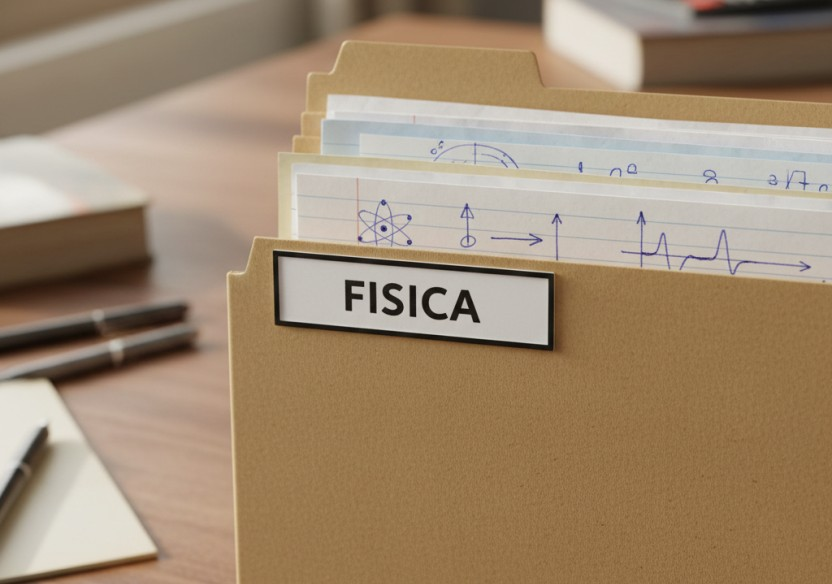
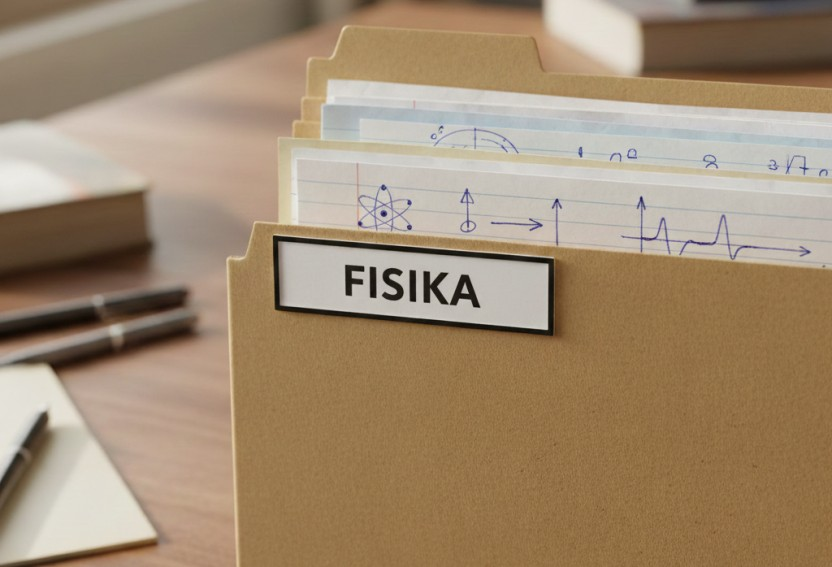
fletxak falta

diff --git a/autoebaluazioa.html b/autoebaluazioa.html
@@ -64,7 +64,7 @@
       color: white;
       user-select: none;
       min-height: 72px;
-      border: 4px solid transparent; /* Preparado para el borde */
+      border: 4px solid transparent; 
       text-align: center;
     }
 
@@ -74,22 +74,20 @@
       z-index: 10;
     }
 
-    /* --- ESTILOS DE SELECCIÓN MEJORADOS --- */
-    
-    /* Cuando una respuesta está seleccionada */
+  
     .answer-btn.selected {
       transform: scale(1.05);
-      border-color: #fff; /* Borde blanco grueso */
+      border-color: #fff; 
       box-shadow: 0 0 20px rgba(255, 255, 255, 0.4);
       z-index: 10;
     }
 
-    /* Cuando el contenedor tiene alguna seleccionada, oscurecemos las NO seleccionadas */
+  
     .kahoot-grid.has-selection .answer-btn:not(.selected) {
       opacity: 0.4;
       transform: scale(0.95);
     }
-    /* -------------------------------------- */
+  
 
     .a1 { background: linear-gradient(135deg,#e75b57,#d43b2e); }
     .a2 { background: linear-gradient(135deg,#2b8fd8,#015fa7); }
@@ -135,7 +133,6 @@
 
     .small-muted { opacity: 0.85; color: rgba(255,255,255,0.85); }
     
-    /* Feedback text styles */
     .feedback-correct { color: #198754; font-weight: bold; }
     .feedback-wrong { color: #dc3545; font-weight: bold; }
     .feedback-info { font-size: 0.95rem; margin-top: 5px; color: #555; }
@@ -270,7 +267,7 @@
             <div class="answer-btn a4" data-value="correct" data-q="10">4</div>
           </div>
         </div>
-      </div>
+      </div>  
 
       <div id="nav-buttons" class="d-flex justify-content-between align-items-center">
         <button id="prev-btn" class="btn btn-light" disabled>⬅ Aurrekoa</button>
@@ -297,14 +294,11 @@
   </div>
 
   <script>
-    // Variables de Estado
     let currentStep = 0;
     const cards = document.querySelectorAll('.question-card');
     const totalQuestions = cards.length;
-    // Guardamos las respuestas del usuario: { indicePregunta: elementoBoton }
     const userAnswers = {}; 
 
-    // Referencias DOM
     const startScreen = document.getElementById('start-screen');
     const quizScreen = document.getElementById('quiz-screen');
     const startBtn = document.getElementById('start-btn');
@@ -319,39 +313,27 @@
     const retryBtn = document.getElementById('retry-btn');
     const navButtons = document.getElementById('nav-buttons');
 
-    // --- LOGICA DE INICIO ---
     startBtn.addEventListener('click', () => {
       startScreen.classList.add('d-none');
       quizScreen.classList.remove('d-none');
       updateView();
     });
 
-    // --- LOGICA DE SELECCION (Mejorada visualmente) ---
     document.querySelectorAll('.answer-btn').forEach(btn => {
       btn.addEventListener('click', (e) => {
         const qIndex = parseInt(btn.getAttribute('data-q'));
         const parentGrid = btn.closest('.kahoot-grid');
         
-        // 1. Quitar clase 'selected' a hermanos
-        parentGrid.querySelectorAll('.answer-btn').forEach(b => b.classList.remove('selected'));
-        
-        // 2. Añadir clase 'selected' al clickado
-        btn.classList.add('selected');
-        
-        // 3. Añadir clase al padre para oscurecer los no seleccionados
-        parentGrid.classList.add('has-selection');
 
-        // 4. Guardar respuesta
+        parentGrid.querySelectorAll('.answer-btn').forEach(b => b.classList.remove('selected'));
+        btn.classList.add('selected');    
+        parentGrid.classList.add('has-selection');
         userAnswers[qIndex] = btn;
-        
-        // Ocultar warning si se selecciona algo
         warningDiv.classList.add('d-none');
       });
     });
 
-    // --- NAVEGACION ---
     nextBtn.addEventListener('click', () => {
-      // Validar si ha respondido
       if (!userAnswers[currentStep]) {
         warningDiv.classList.remove('d-none');
         warningDiv.innerText = "⚠ Mesedez, aukeratu erantzun bat jarraitzeko!";
@@ -374,7 +356,6 @@
     });
 
     function updateView() {
-      // Mostrar tarjeta actual
       cards.forEach((card, index) => {
         if (index === currentStep) {
           card.classList.add('active');
@@ -383,7 +364,6 @@
         }
       });
 
-      // Controlar botones
       prevBtn.disabled = (currentStep === 0);
       
       if (currentStep === totalQuestions - 1) {
@@ -395,9 +375,7 @@
       }
     }
 
-    // --- FINALIZAR Y RESULTADOS ---
     finishBtn.addEventListener('click', () => {
-       // Validar última pregunta
        if (!userAnswers[currentStep]) {
         warningDiv.classList.remove('d-none');
         warningDiv.innerText = "⚠ Mesedez, aukeratu erantzun bat amaitzeko!";
@@ -408,12 +386,10 @@
     });
 
     function showResults() {
-      // Ocultar preguntas y navegación
       document.getElementById('questions').classList.add('d-none');
       navButtons.classList.add('d-none');
-      warningDiv.classList.add('d-none'); // Asegurar que no hay alertas
+      warningDiv.classList.add('d-none'); 
 
-      // Calcular nota y generar HTML detallado
       let score = 0;
       let resultsHTML = '';
 
@@ -424,12 +400,9 @@
         
         if (isCorrect) score++;
 
-        // Buscar texto de la respuesta correcta (para mostrar si falla)
-        // Buscamos dentro de la carta, el botón con data-value="correct"
         const correctBtn = card.querySelector('.answer-btn[data-value="correct"]');
         const correctAnswerText = correctBtn ? correctBtn.innerText : "Erantzun ezezaguna";
 
-        // Construir la tarjeta de resultado
         resultsHTML += `
           <div class="result-card ${isCorrect ? 'correct' : 'wrong'}">
             <strong>${questionText}</strong>
@@ -445,29 +418,24 @@
         `;
       });
 
-      // Inyectar HTML
       resultsDiv.innerHTML = resultsHTML;
       scoreText.innerText = `${score} / ${totalQuestions}`;
       summaryDiv.classList.remove('d-none');
 
-      // Gif lógica
       resultGif.classList.remove('d-none');
       if (score === totalQuestions) {
-        resultGif.src = "https://media.giphy.com/media/l0MYt5jPR6QX5pnqM/giphy.gif"; // Winner
+        resultGif.src = "https://media.giphy.com/media/l0MYt5jPR6QX5pnqM/giphy.gif"; 
       } else if (score >= totalQuestions / 2) {
-        resultGif.src = "https://media.giphy.com/media/3o7abKhOpu0NwenH3O/giphy.gif"; // Not bad
+        resultGif.src = "https://media.giphy.com/media/3o7abKhOpu0NwenH3O/giphy.gif"; 
       } else {
-        resultGif.src = "https://media.giphy.com/media/26ybfv79tOrD9yKUU/giphy.gif"; // Fail
+        resultGif.src = "https://media.giphy.com/media/26ybfv79tOrD9yKUU/giphy.gif"; 
       }
     }
 
-    // --- REINICIAR ---
     retryBtn.addEventListener('click', () => {
-      // Reset variables
       currentStep = 0;
       for (let key in userAnswers) delete userAnswers[key];
       
-      // Limpiar UI
       document.querySelectorAll('.answer-btn').forEach(b => b.classList.remove('selected'));
       document.querySelectorAll('.kahoot-grid').forEach(g => g.classList.remove('has-selection'));
       
